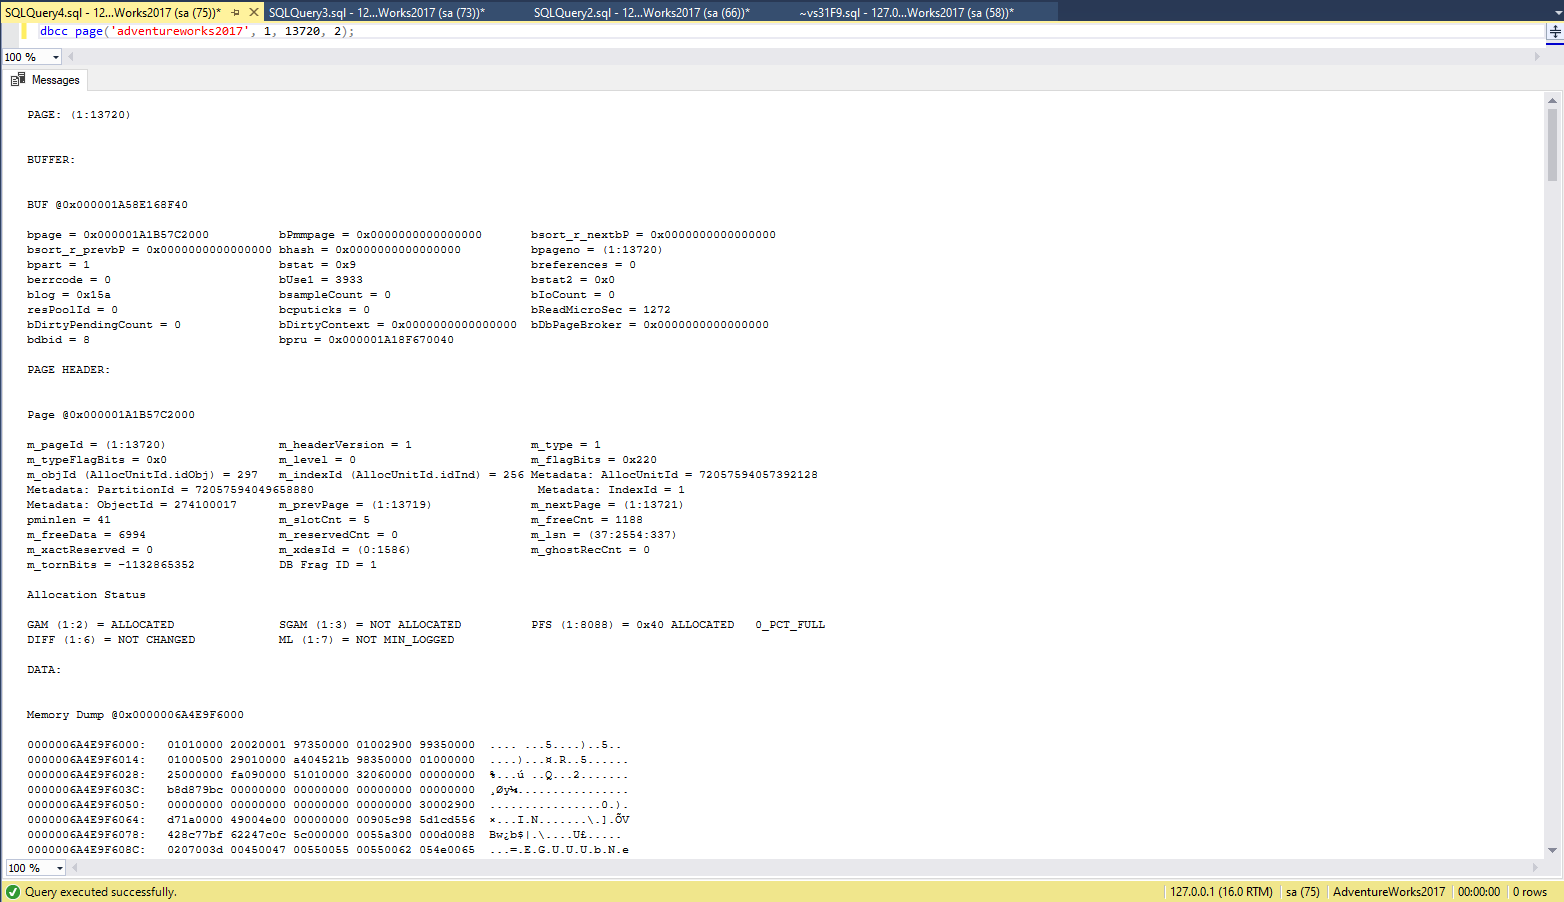
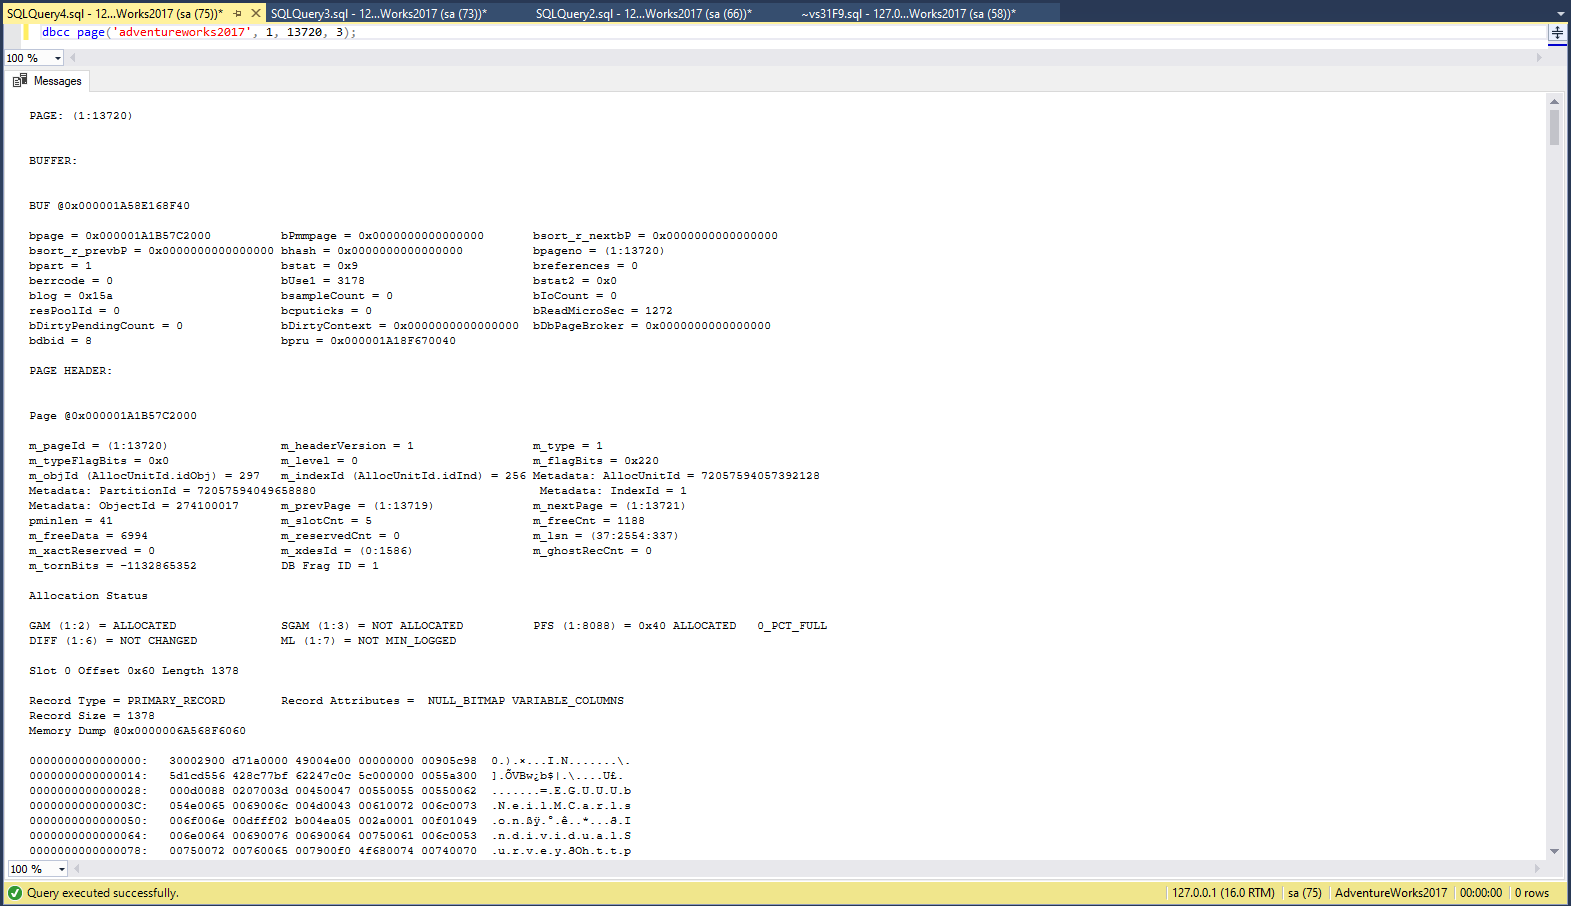
Fix format

diff --git a/lab4/lab4-index-opt-1.md b/lab4/lab4-index-opt-1.md
@@ -16,7 +16,7 @@
 
 ---
 
-**Imię i nazwisko:**
+**Imię i nazwisko:** Mateusz Skowron, Bartłomiej Wiśniewski, Karol Wrona
 
 --- 
 
@@ -146,6 +146,8 @@ Teraz wykonaj poszczególne zapytania (najlepiej każde analizuj oddzielnie). Co
 (Hint: aby wykonać tylko fragment kodu SQL znajdującego się w edytorze, zaznacz go i naciśnij F5)
 
 ---
+>Wyniki
+
 ## Zapytanie 1
 
 #### Opis
@@ -271,8 +273,6 @@ Po wykonaniu zapytania po utworzeniu indeksu, czas i koszt każdego z etapów or
 
 Zaznacz wszystkie zapytania, i uruchom je w **Database Engine Tuning Advisor**:
 
-<!-- ![[_img/index1-12.png | 500]] -->
-
 <img src="_img/index1-2.png" alt="image" width="500" height="auto">
 
 
@@ -280,7 +280,7 @@ Sprawdź zakładkę **Tuning Options**, co tam można skonfigurować?
 
 ---
 
-### Wyniki
+>Wyniki
 
 ![alt text](./_img/zad2_1.png)
 
@@ -324,7 +324,8 @@ Uruchom zapisany skrypt w Management Studio.
 Opisz, dlaczego dane indeksy zostały zaproponowane do zapytań:
 
 ---
-### Wyniki
+
+>Wyniki
 
 ##### Recommendations
 
@@ -414,7 +415,7 @@ Sprawdź jak zmieniły się Execution Plany. Opisz zmiany.
 
 ---
 
-### Wyniki
+>Wyniki
 
 ```sql
 TODO
@@ -450,7 +451,8 @@ from sys.dm_db_index_physical_stats (db_id('adventureworks2017')
 Jakie są według Ciebie najważniejsze pola?
 
 ---
-#### Wyniki
+
+> Wyniki
 
 ![alt text](./_img/zad3_1.png)
 
@@ -485,7 +487,8 @@ and index_id not in (0) --only clustered and nonclustered indexes
 ```
 
 ---
-#### Wyniki
+
+> Wyniki
 
 ![alt text](./_img/zad3_2.png)
 
@@ -512,7 +515,8 @@ and index_id not in (0) --only clustered and nonclustered indexes
 ```
 
 ---
-### Wyniki
+
+> Wyniki
 
 ![alt text](./_img/zad3_3.png)
 
@@ -527,7 +531,8 @@ Czym się różni przebudowa indeksu od reorganizacji?
 (Podpowiedź: [http://blog.plik.pl/2014/12/defragmentacja-indeksow-ms-sql.html](http://blog.plik.pl/2014/12/defragmentacja-indeksow-ms-sql.html))
 
 ---
-### Wyniki
+
+> Wyniki
 
 Obie operacje - reorganizacja i przebudowa indeksów - mają na celu zmniejszenie poziomu fragmentacji indeksu, jednak różnią się sposobem działania oraz skutkami.
 
@@ -543,7 +548,8 @@ https://learn.microsoft.com/en-us/sql/relational-databases/indexes/reorganize-an
 Sprawdź co przechowuje tabela sys.dm_db_index_usage_stats:
 
 ---
-### Wyniki
+
+> Wyniki
 
 ```sql
 select * from  sys.dm_db_index_usage_stats;
@@ -591,7 +597,8 @@ on sc.schema_id = ob.schema_id
 Napisz przygotowane komendy SQL do naprawy indeksów:
 
 ---
-### Wyniki
+
+> Wyniki
 
 ##### Przebudowa
 
@@ -672,7 +679,8 @@ dbcc ind ('adventureworks2017', 'person.address', 1)
 Zapisz sobie kilka różnych typów stron, dla różnych indeksów:
 
 ---
-### Wyniki
+
+> Wyniki
 
 >Index 1
 ![alt text](./_img/zad4_1.png)
@@ -724,13 +732,20 @@ dbcc page('adventureworks2017', 1, 13720, 3);
 Zapisz obserwacje ze stron. Co ciekawego udało się zaobserwować?
 
 ---
-### Wyniki
+
+> Wyniki
+
+##### Włączenie flagi
 
 ![alt text](./_img/zad4_4.png)
+
+##### Sprawdzanie stron
 
 ![alt text](./_img/zad4_5.png)
 
 ![alt text](./_img/zad4_6.png)
+
+![alt text](./_img/zad4_7.png)
 
 Podczas analizy zauważyliśmy cztery ciekawe obserwacje:
 
